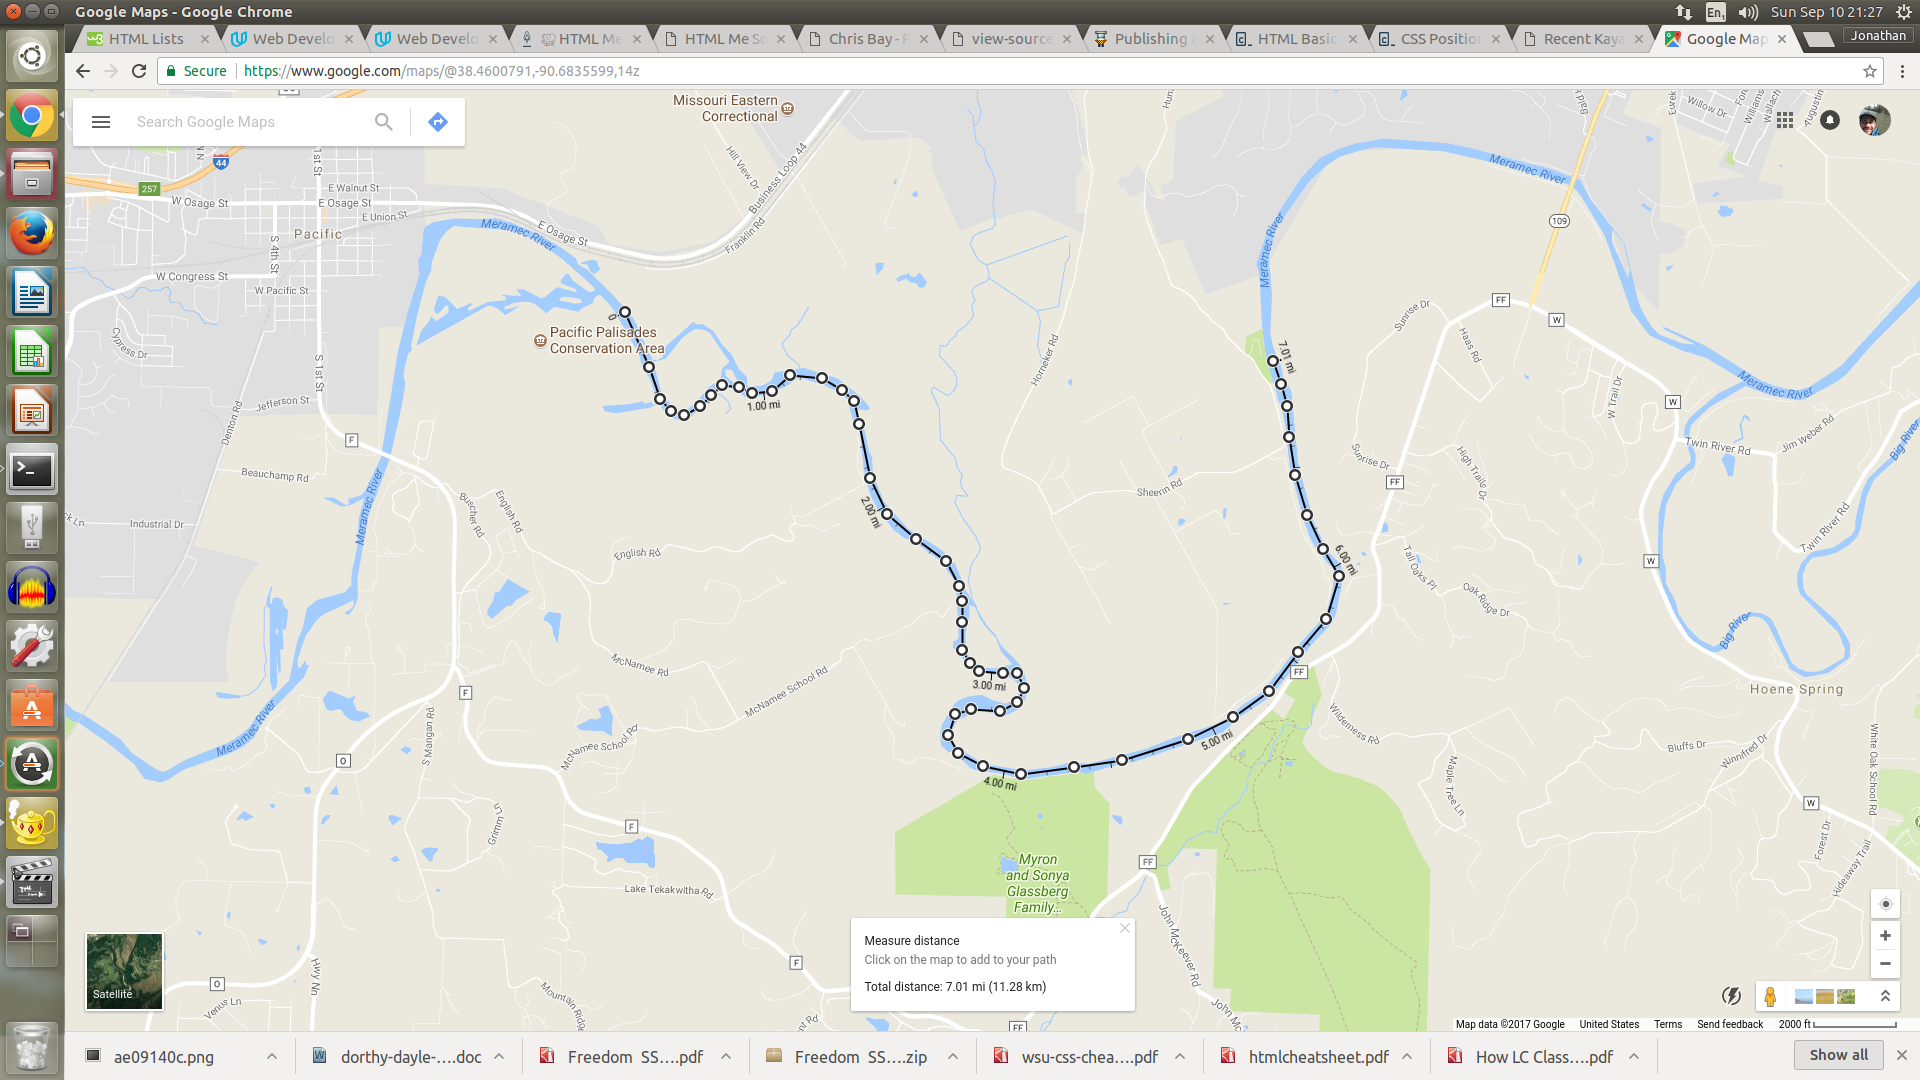
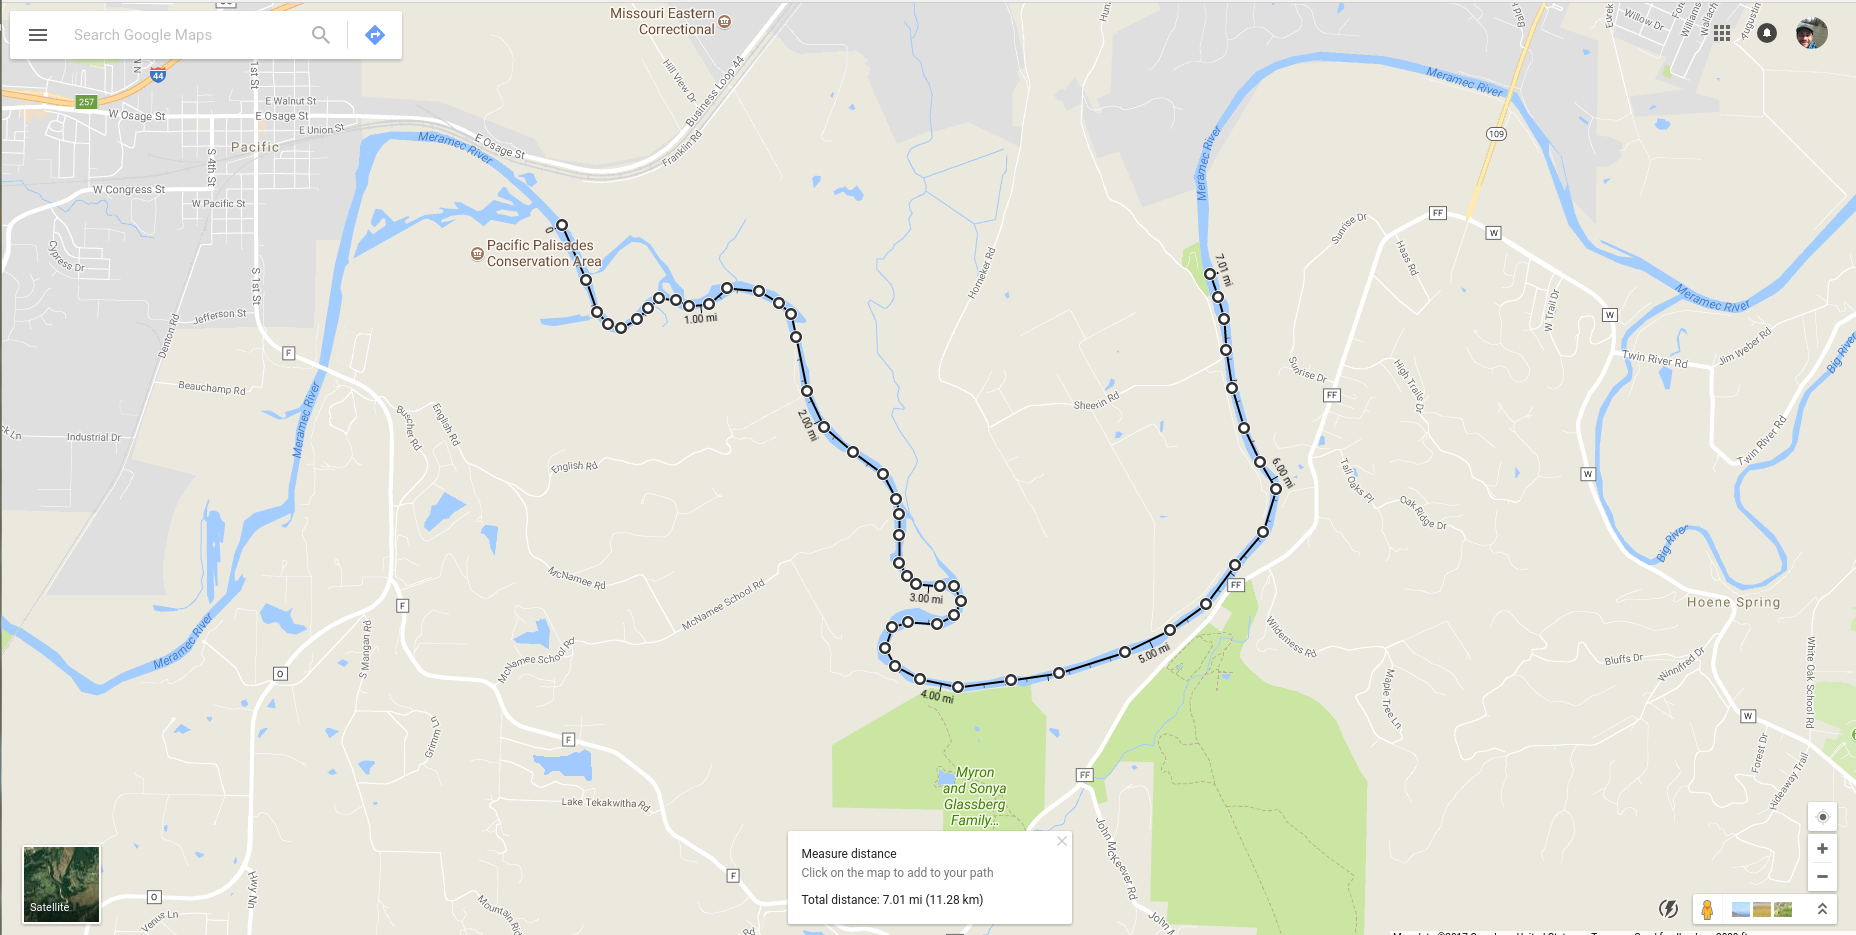
added images to pallenton section

diff --git a/index.html b/index.html
@@ -37,6 +37,14 @@ Passage and Pelican Island.</q> <cite><a href="https://www.stlouisco.com/Portals
 				<section>
 					<a name="palisades_to_allenton_9_3_17"></a>
 					<h2>Pacific Palisades to Allenton Access (Meramec River)</h2>
+					<figure>
+						<img src="./images/evergreen/pallenton_map.png" alt="Map" />
+						<figcaption>Route Map</figcaption>
+					</figure>
+					<figure>
+						<img src="./images/pallenton9-3-2017/50200e6ae9400.image.jpg" alt="stock image of Pacific Palisades sign" />
+						<figcaption>Pacific Palisades Sign</figcaption>
+					</figure>
 				</section>
 				<section>
 					<a name="brickhouse_slough"></a>
